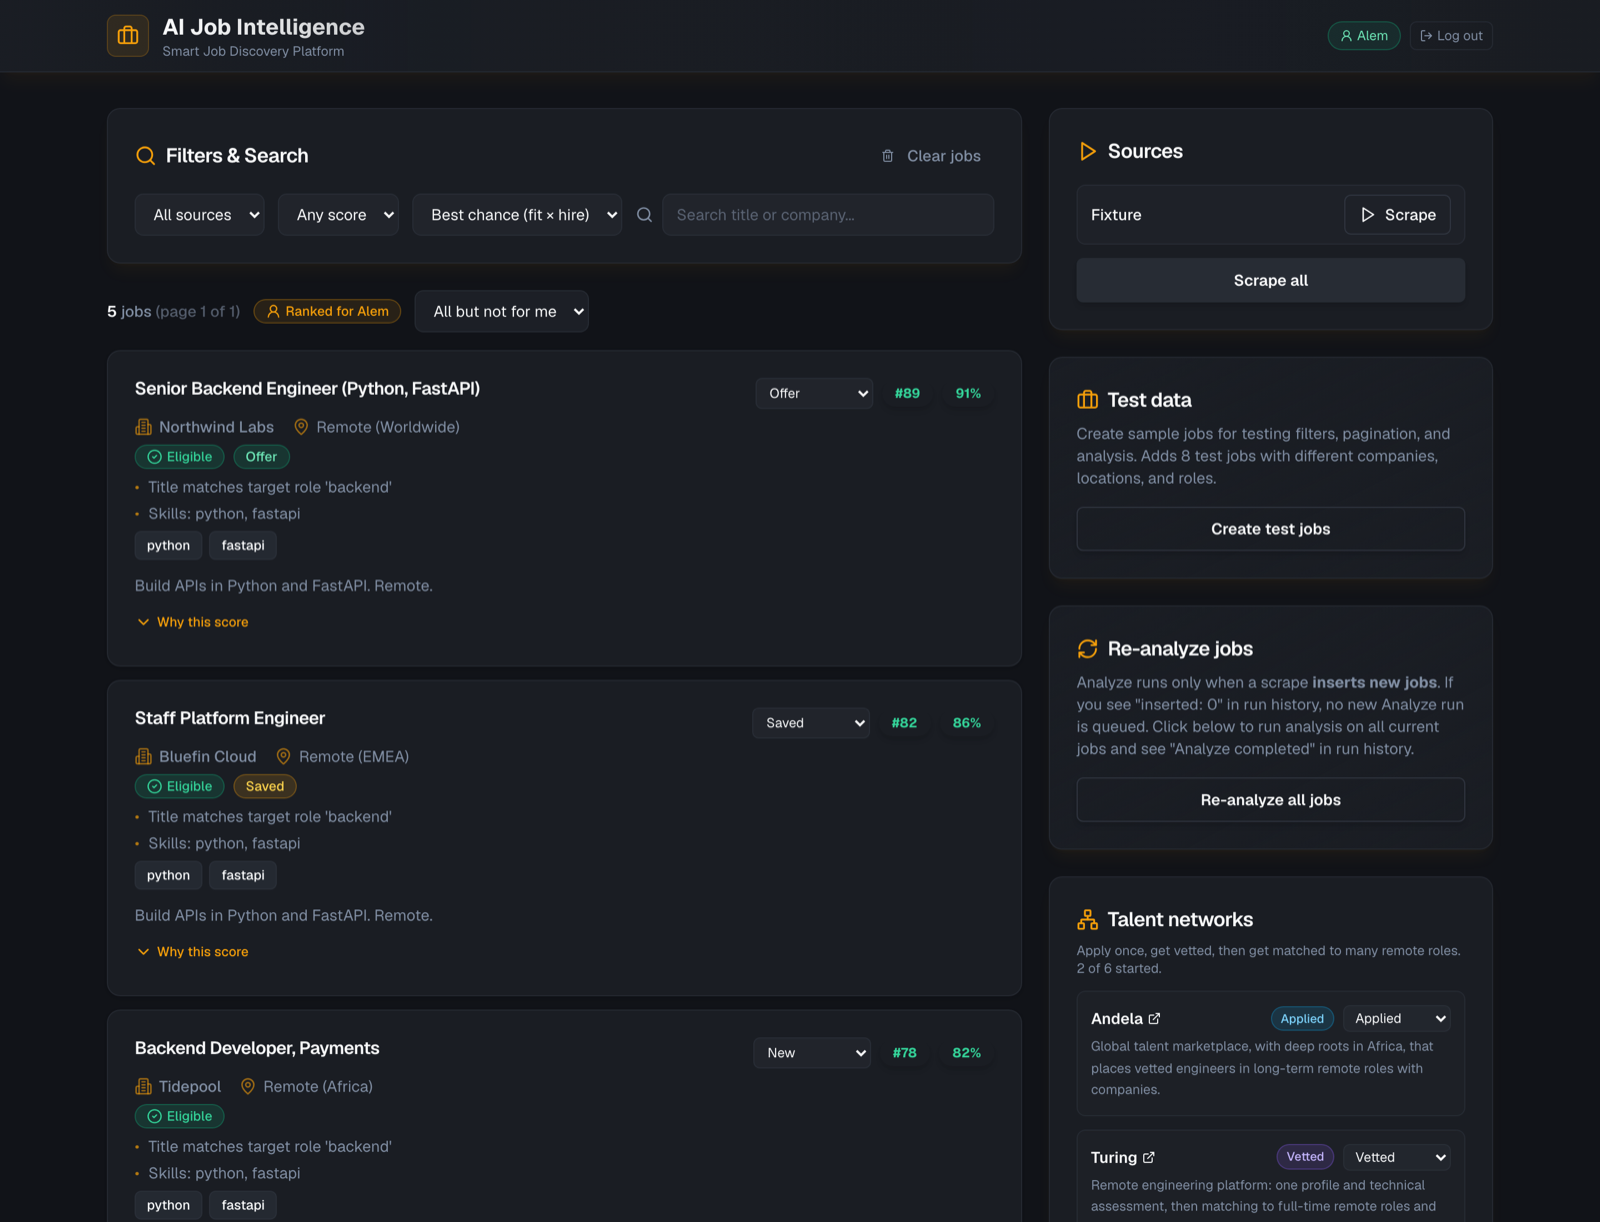
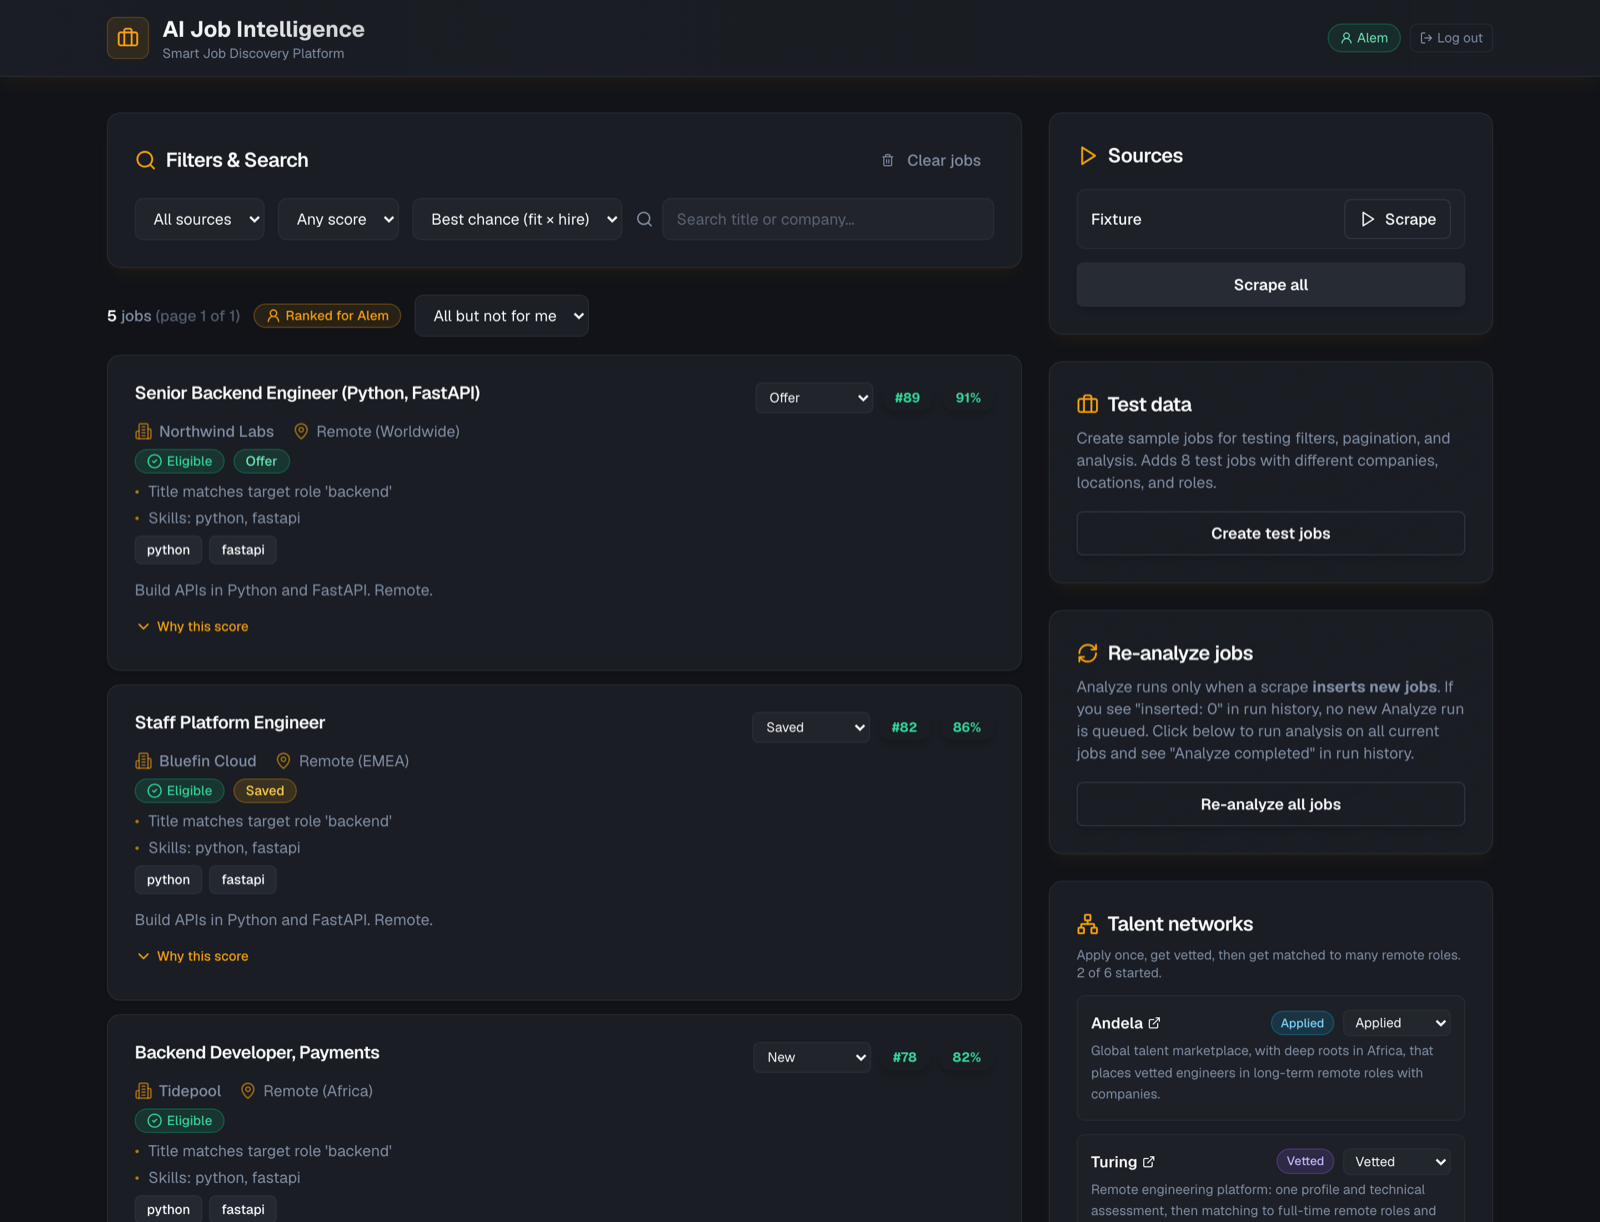
fix(dashboard): wrap the header cleanly on phones with the login controls
At 390px the title stays on one line and the controls (admin token and
Log in, or name and Log out) wrap under it; the admin-token placeholder
is shortened so it isn't cut off. scrollWidth equals the viewport at
390/768/1400px, logged out and in. Screenshots refreshed, 390px header
shots added.

diff --git a/frontend/components/Tracker.tsx b/frontend/components/Tracker.tsx
@@ -125,9 +125,9 @@ export function AdminTokenField() {
       <input
         type="password"
         autoComplete="off"
-        placeholder="Admin token (private view)"
+        placeholder="Admin token"
         aria-label="Admin token"
-        className="w-44 rounded-md border border-border/50 bg-secondary/50 px-2 py-1 text-xs placeholder:text-muted-foreground/60 focus:border-primary focus:outline-none"
+        className="w-36 sm:w-44 rounded-md border border-border/50 bg-secondary/50 px-2 py-1 text-xs placeholder:text-muted-foreground/60 focus:border-primary focus:outline-none"
         value={value}
         onChange={(e) => setValue(e.target.value)}
         onBlur={() => {
@@ -174,14 +174,14 @@ export function ViewerControl() {
   }, [authKey]);
   if (!me)
     return (
-      <div className="flex items-center gap-3">
+      <div className="flex flex-wrap items-center justify-end gap-2 sm:gap-3">
         <AdminTokenField />
         <LoginButton />
       </div>
     );
   if (me.via === "session")
     return (
-      <div className="flex items-center gap-2 text-xs">
+      <div className="flex flex-wrap items-center justify-end gap-2 text-xs">
         <span className={pillCls} data-testid="viewer-name">
           <UserRound className="h-3 w-3" aria-hidden="true" />
           {me.display_name}
@@ -203,7 +203,7 @@ export function ViewerControl() {
       </div>
     );
   return (
-    <div className="flex items-center gap-2 text-xs">
+    <div className="flex flex-wrap items-center justify-end gap-2 text-xs">
       <span className={pillCls}>
         <Lock className="h-3 w-3" aria-hidden="true" />
         Private view: {me.display_name}

diff --git a/frontend/app/login/page.tsx b/frontend/app/login/page.tsx
@@ -65,13 +65,13 @@ export default function LoginPage() {
   return (
     <div className="min-h-screen bg-background">
       <header className="border-b border-border/50 bg-gradient-to-r from-card via-card/95 to-card/90 shadow-lg shadow-primary/5">
-        <div className="container mx-auto flex h-16 items-center justify-between px-4">
-          <Link href="/" className="flex items-center gap-3">
+        <div className="container mx-auto flex min-h-16 flex-wrap items-center justify-between gap-x-4 gap-y-2 px-4 py-3">
+          <Link href="/" className="flex min-w-0 items-center gap-3">
             <div className="p-2 rounded-lg bg-primary/10 border border-primary/20">
               <Briefcase className="h-5 w-5 text-primary" />
             </div>
             <div>
-              <h1 className="text-xl font-bold">AI Job Intelligence</h1>
+              <h1 className="text-lg font-bold sm:text-xl">AI Job Intelligence</h1>
               <p className="text-xs text-muted-foreground">Smart Job Discovery Platform</p>
             </div>
           </Link>
@@ -82,7 +82,7 @@ export default function LoginPage() {
         </div>
       </header>
 
-      <main className="container mx-auto flex justify-center px-4 py-16">
+      <main className="container mx-auto flex justify-center px-4 py-10 sm:py-16">
         <Card className="w-full max-w-md border-border/50 shadow-lg shadow-primary/5 animate-fade-in">
           <CardHeader className="items-center text-center">
             <div className="mb-2 rounded-full border border-primary/20 bg-primary/10 p-3">

diff --git a/frontend/app/page.tsx b/frontend/app/page.tsx
@@ -265,13 +265,14 @@ export default function DashboardPage() {
   return (
     <div className="min-h-screen bg-background">
       <header className="border-b border-border/50 bg-gradient-to-r from-card via-card/95 to-card/90 backdrop-blur-sm sticky top-0 z-50 shadow-lg shadow-primary/5">
-        <div className="container mx-auto flex h-16 items-center justify-between px-4">
-          <div className="flex items-center gap-3">
+        {/* Wraps on phones: the title on one line, the login controls under it. */}
+        <div className="container mx-auto flex min-h-16 flex-wrap items-center justify-between gap-x-4 gap-y-2 px-4 py-3">
+          <div className="flex min-w-0 items-center gap-3">
             <div className="p-2 rounded-lg bg-primary/10 border border-primary/20">
               <Briefcase className="h-5 w-5 text-primary" />
             </div>
             <div>
-              <h1 className="text-xl font-bold bg-gradient-to-r from-foreground to-foreground/80 bg-clip-text text-transparent">
+              <h1 className="text-lg sm:text-xl font-bold bg-gradient-to-r from-foreground to-foreground/80 bg-clip-text text-transparent">
                 AI Job Intelligence
               </h1>
               <p className="text-xs text-muted-foreground">Smart Job Discovery Platform</p>

diff --git a/README.md b/README.md
@@ -527,6 +527,11 @@ which turns the link into a session (`POST /api/auth/token-session`) and forgets
 | Login page | Logged in: ranked for the member, their statuses, "Log out" |
 |---|---|
 | ![The /login page with the Telegram login button](docs/screenshots/web-login.png) | ![Logged in as a member](docs/screenshots/web-login-logged-in.png) |
+| ![390px header, logged out: title, then the admin-token field and Log in](docs/screenshots/web-login-header-390-logged-out.png) | ![390px header, logged in: title, then the name and Log out](docs/screenshots/web-login-header-390-logged-in.png) |
+
+On a 390px phone the header wraps: the title stays on one line and the login controls move under it. The
+page is exactly as wide as the viewport (`document.documentElement.scrollWidth`) at 390, 768 and 1400px,
+logged out and logged in, on `/` and `/login`.
 
 The screenshots come from a local run with system Chrome (Playwright), the API and the static export on
 one origin, and a seeded Postgres. telegram.org isn't contacted there: the widget script is replaced by a
